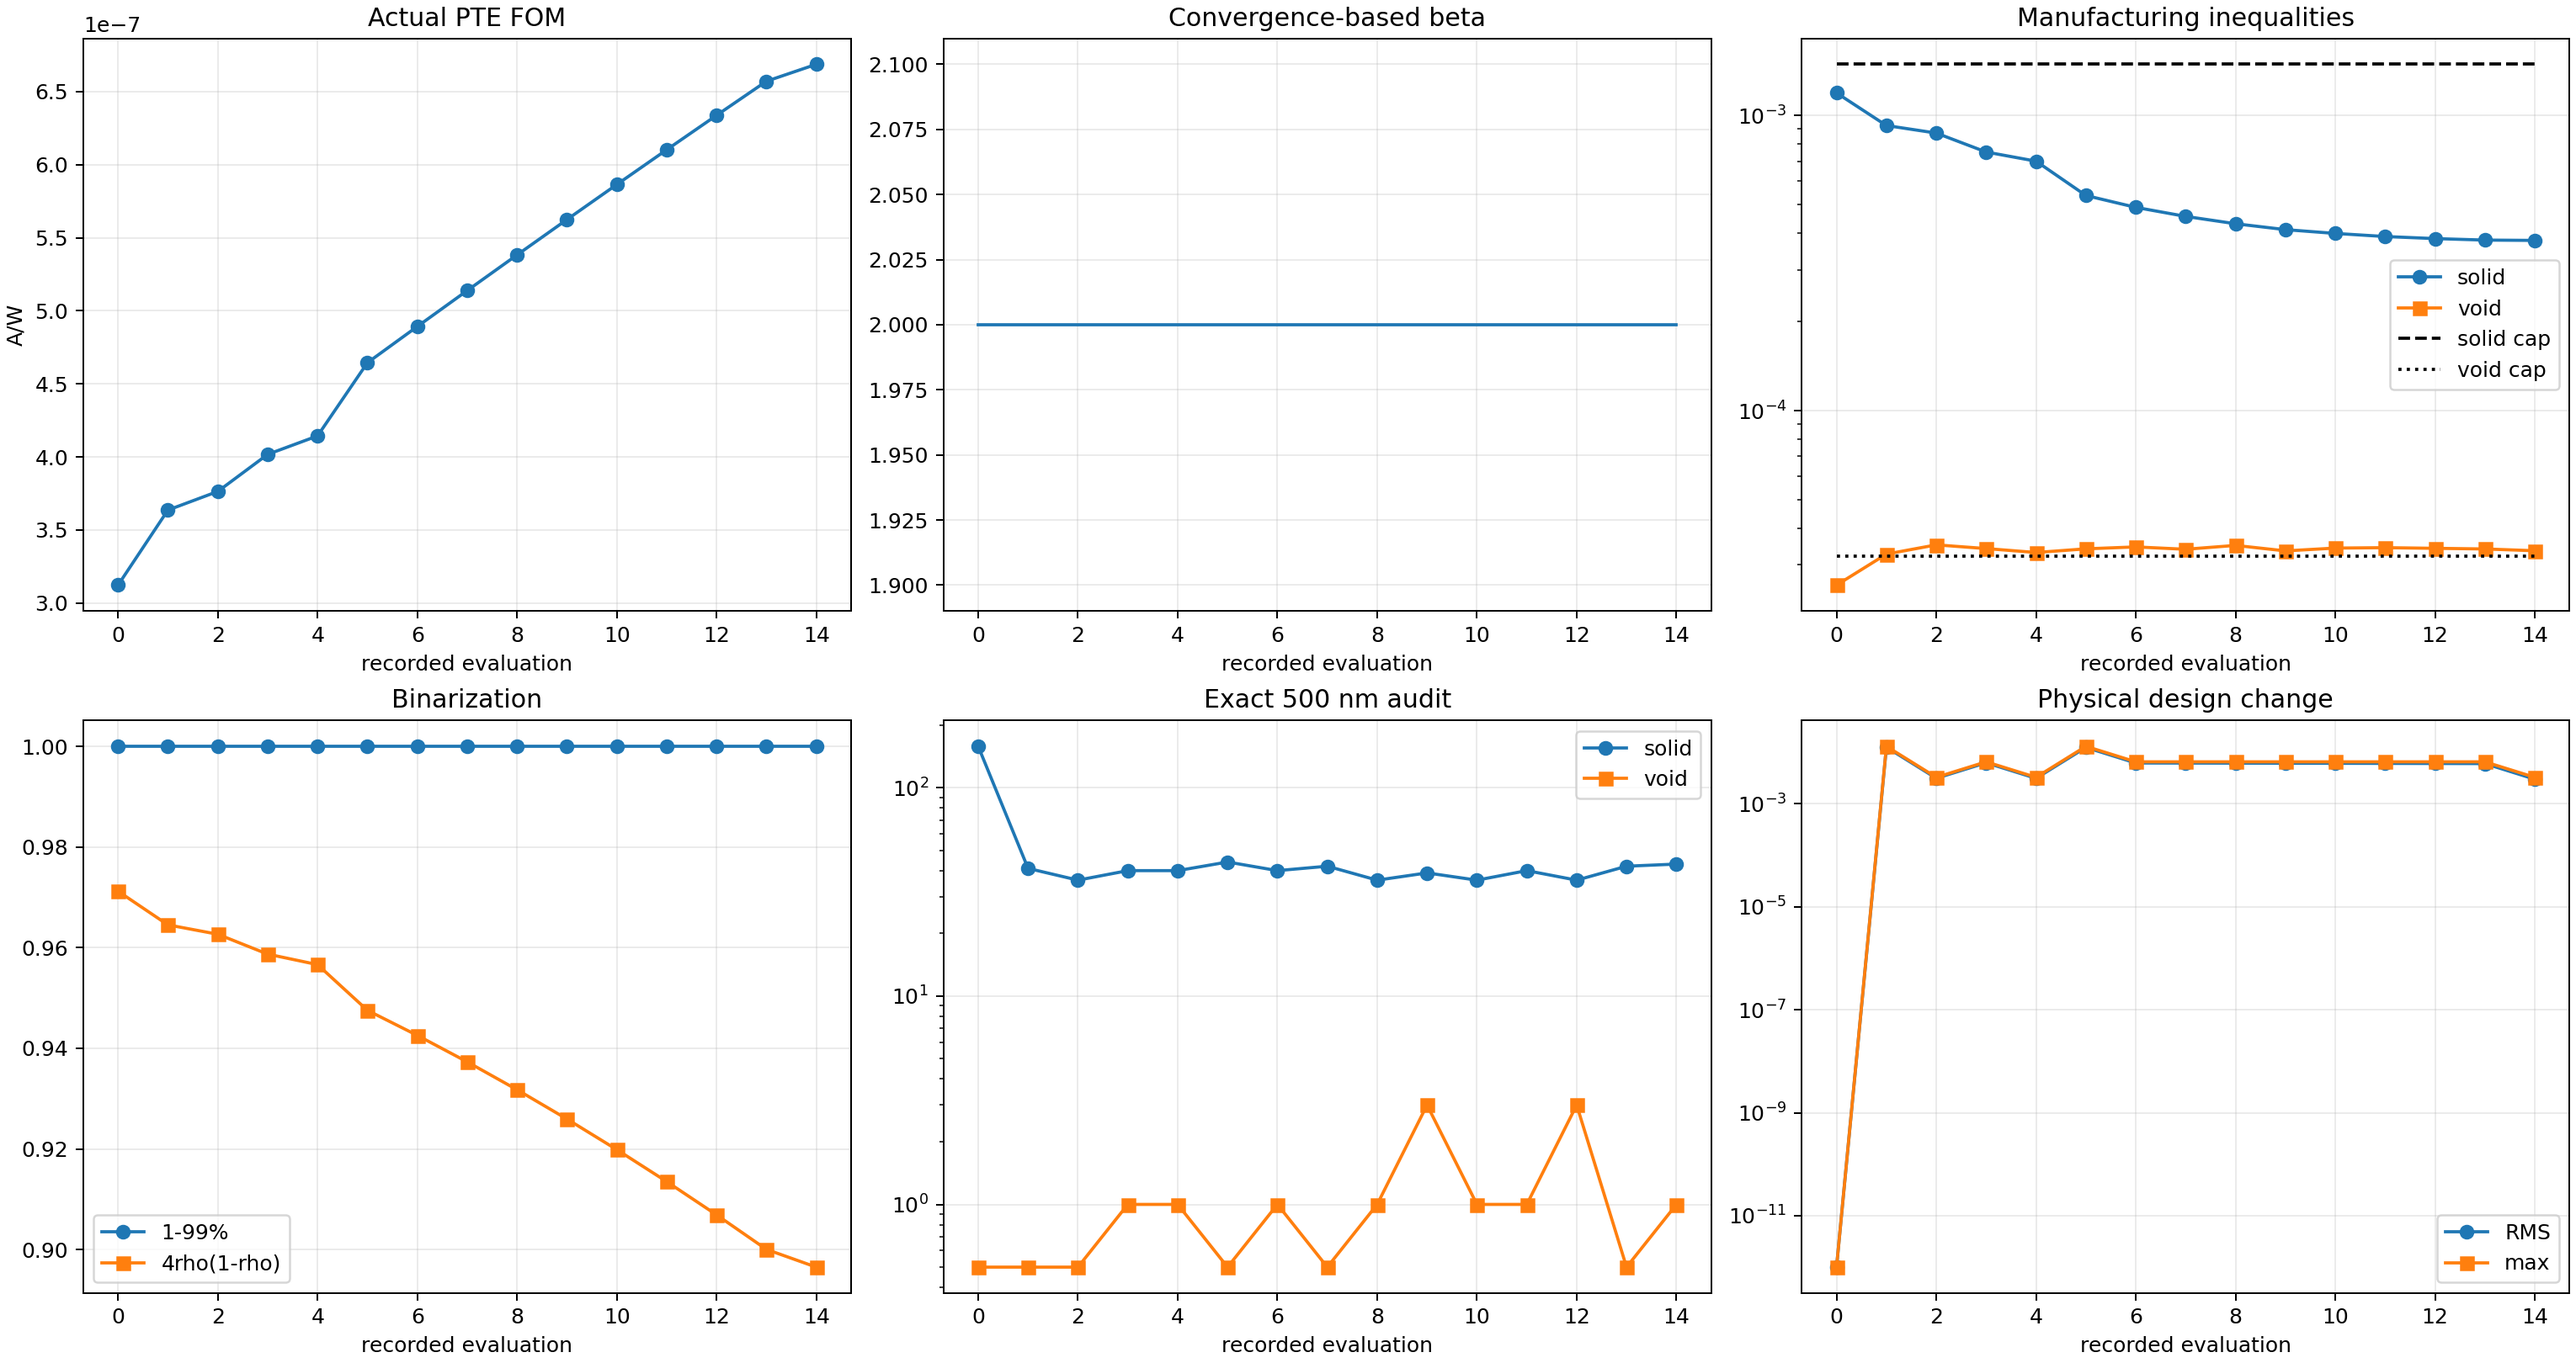
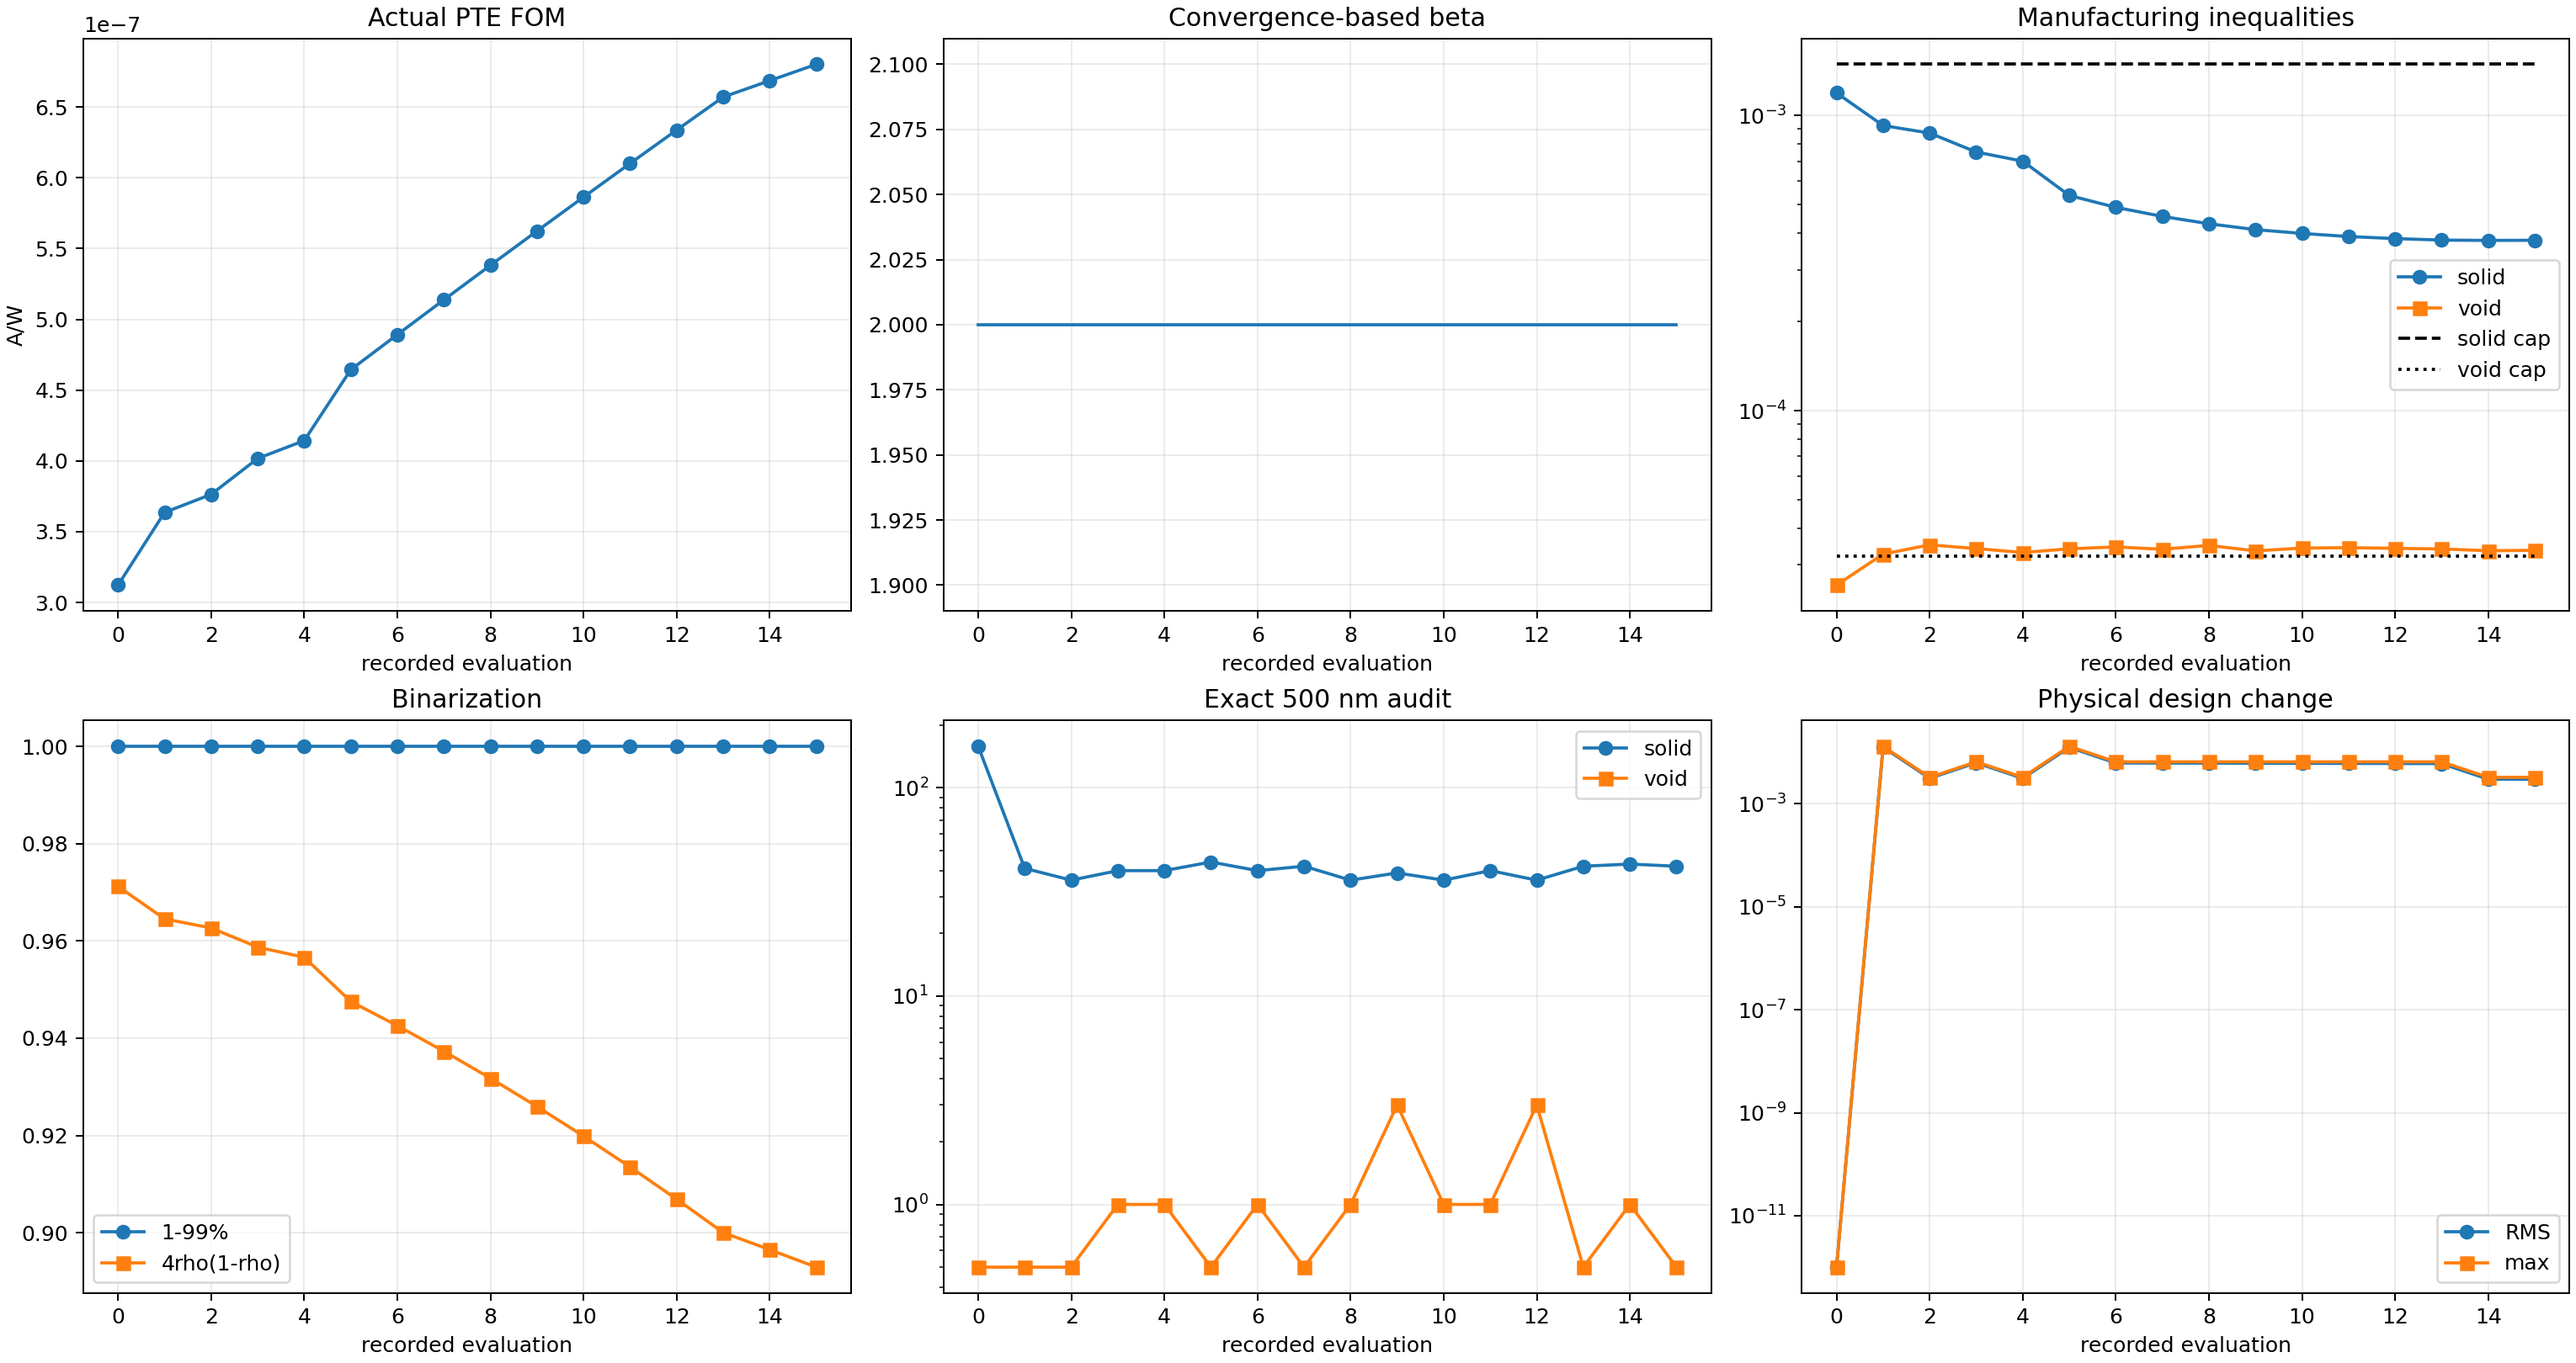
Record Run 005 run008_Ea_b002_s015_g015_accepted_mma

diff --git a/photothermal_pte/optimization_runs/run_008_corrected_Ea_objective_first_constrained/results/OPTIMIZATION_REPORT.md b/photothermal_pte/optimization_runs/run_008_corrected_Ea_objective_first_constrained/results/OPTIMIZATION_REPORT.md
@@ -2,12 +2,12 @@
 
 Status: `RUNNING_CORRECTED_EA_OBJECTIVE_FIRST_CONSTRAINED_OPTIMIZATION`
 
-Current stage: beta=2, accepted stage iteration=14, global iteration=14.
+Current stage: beta=2, accepted stage iteration=15, global iteration=15.
 
 Constraint contract: `soft_disk_opening_500nm_from_iteration_zero_v5`.
 
-Actual FOM: `6.686151033617e-07 A/W`. Fixed-cap solid/void constraints: `3.772958e-04` / `3.352286e-05` with caps `1.490220e-03` / `3.204288e-05`.
+Actual FOM: `6.801425914448e-07 A/W`. Fixed-cap solid/void constraints: `3.777381e-04` / `3.363595e-05` with caps `1.490220e-03` / `3.204288e-05`.
 
-Exact 500 nm bad cells: solid `43`, void `1`. Stage convergence: `False` (fixed solid/void inequalities are not feasible).
+Exact 500 nm bad cells: solid `42`, void `0`. Stage convergence: `False` (fixed solid/void inequalities are not feasible).
 
 Beta advances only after the stage FOM/density plateau. The run is not complete until the projected-binary and exact 500 nm gates pass and a fresh thresholded-binary GPU/CUDA evaluation succeeds.
